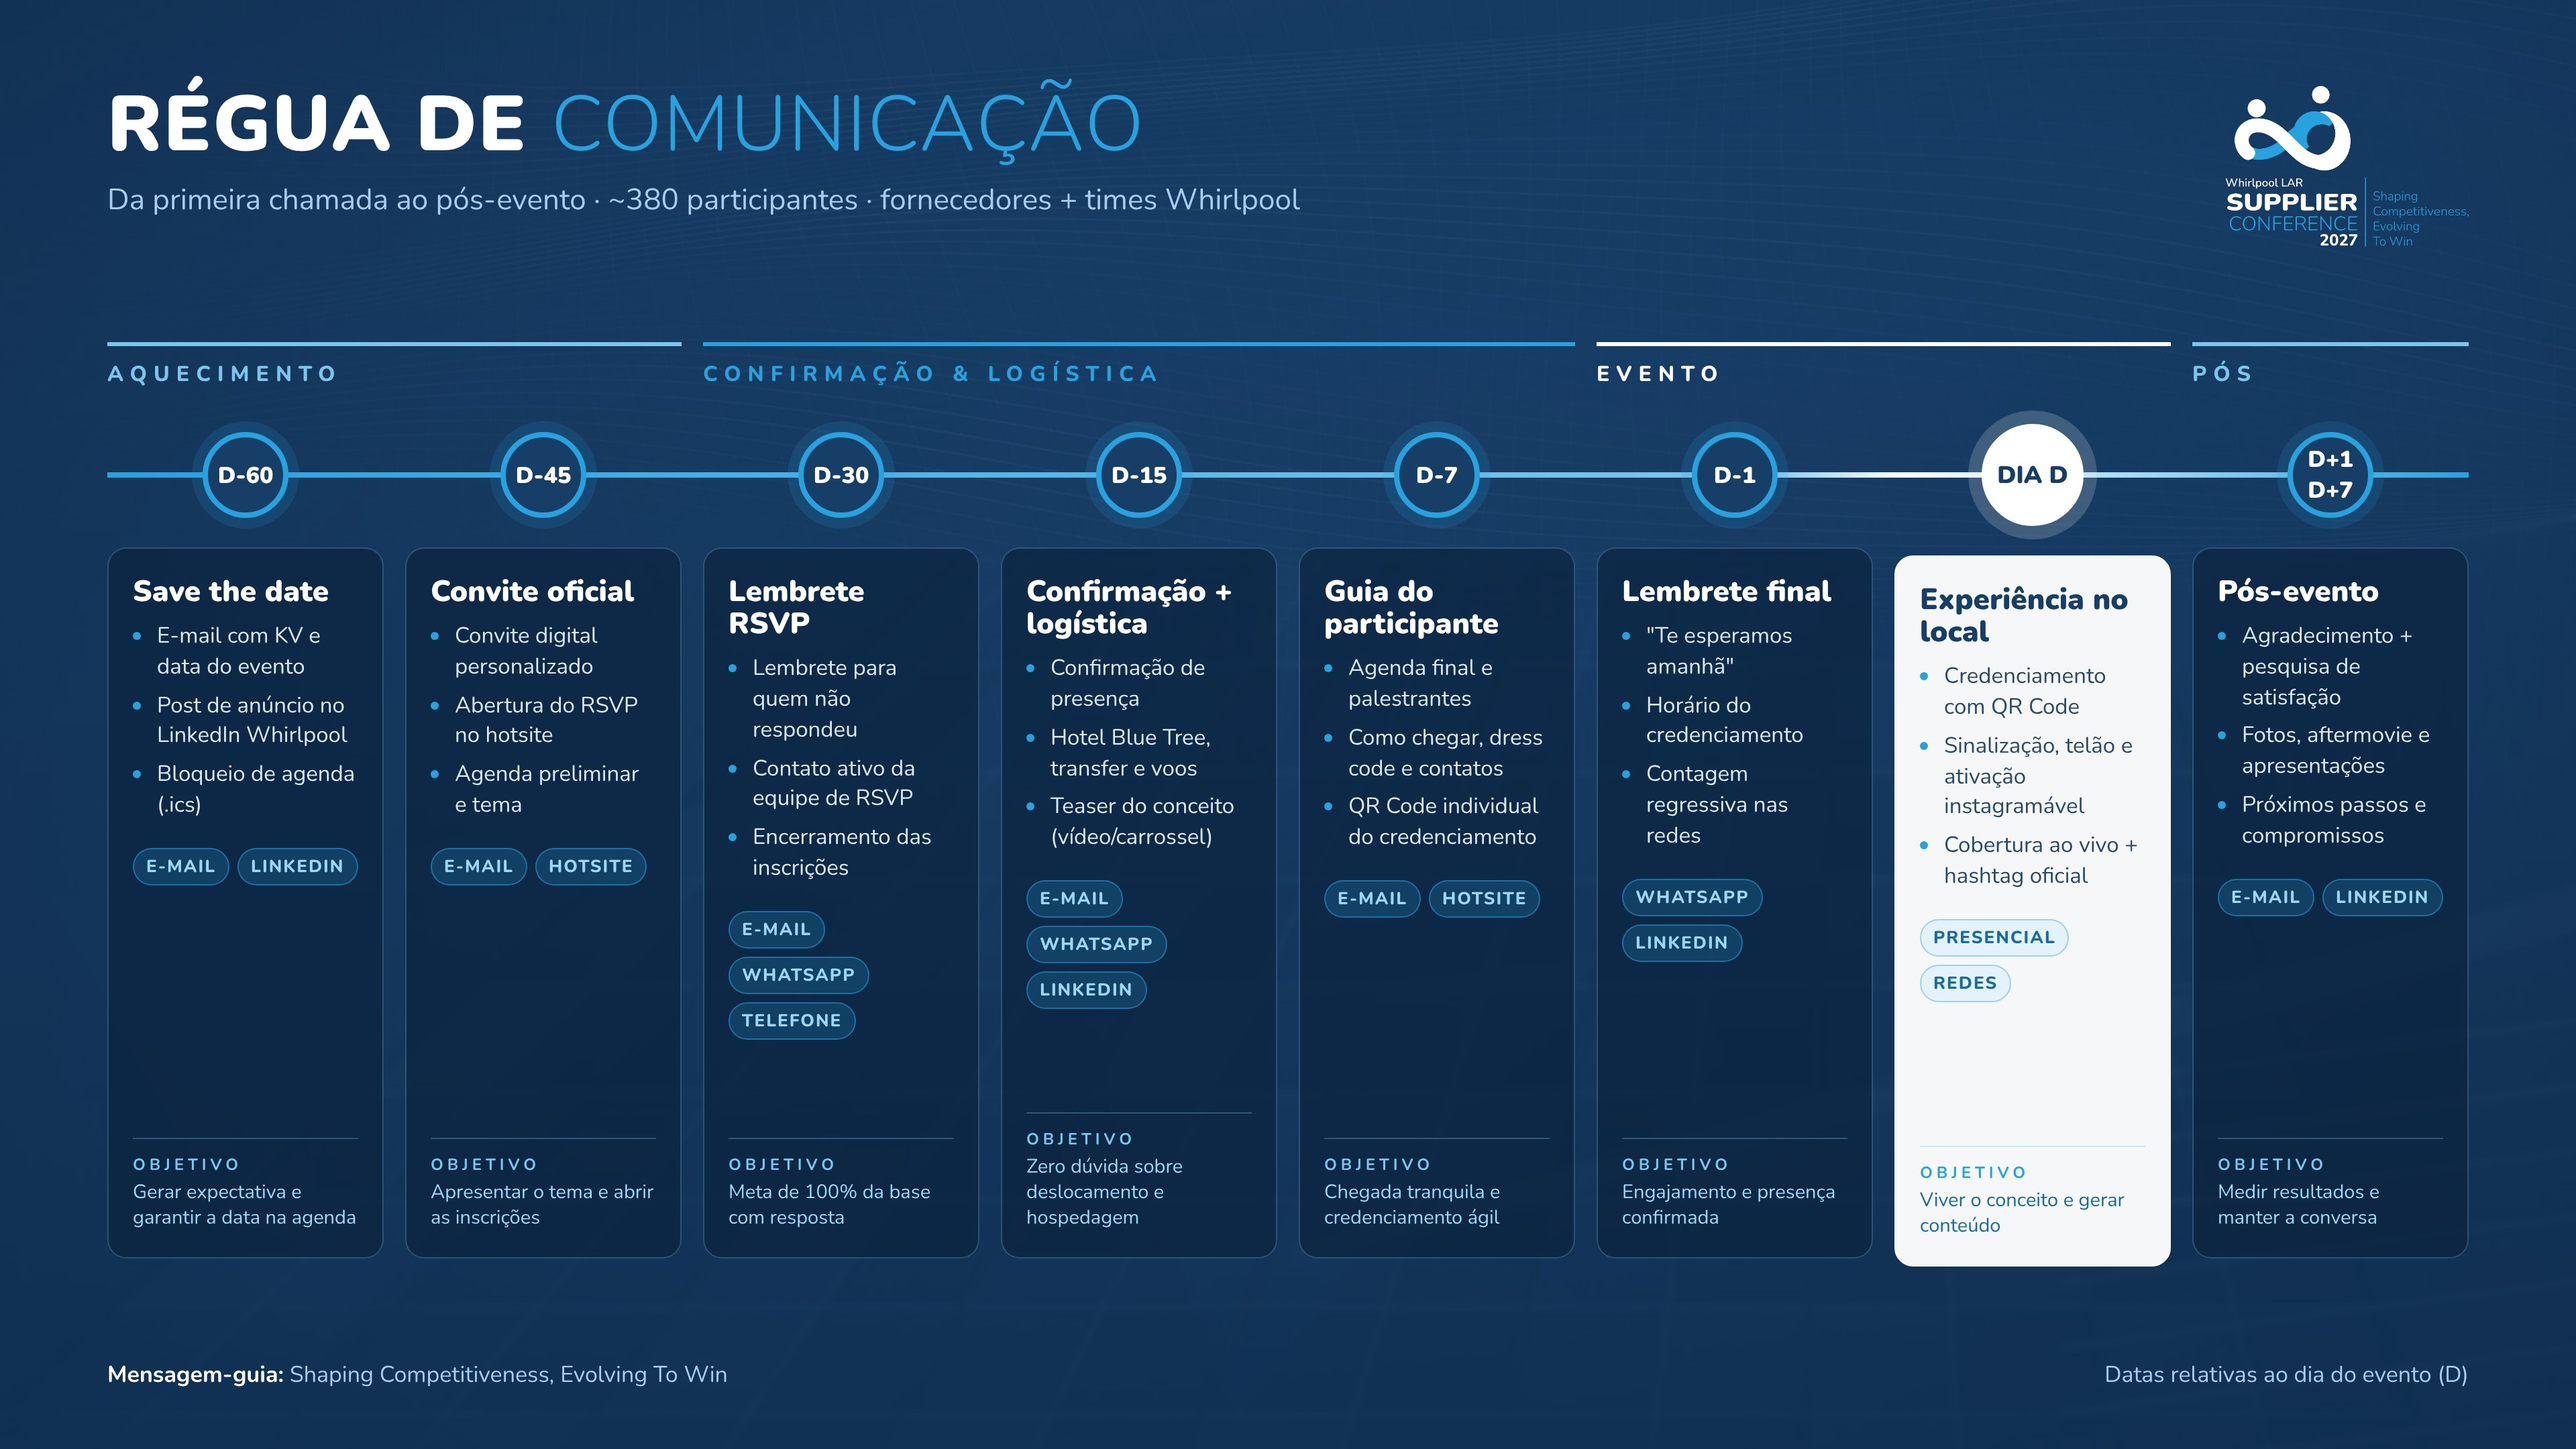
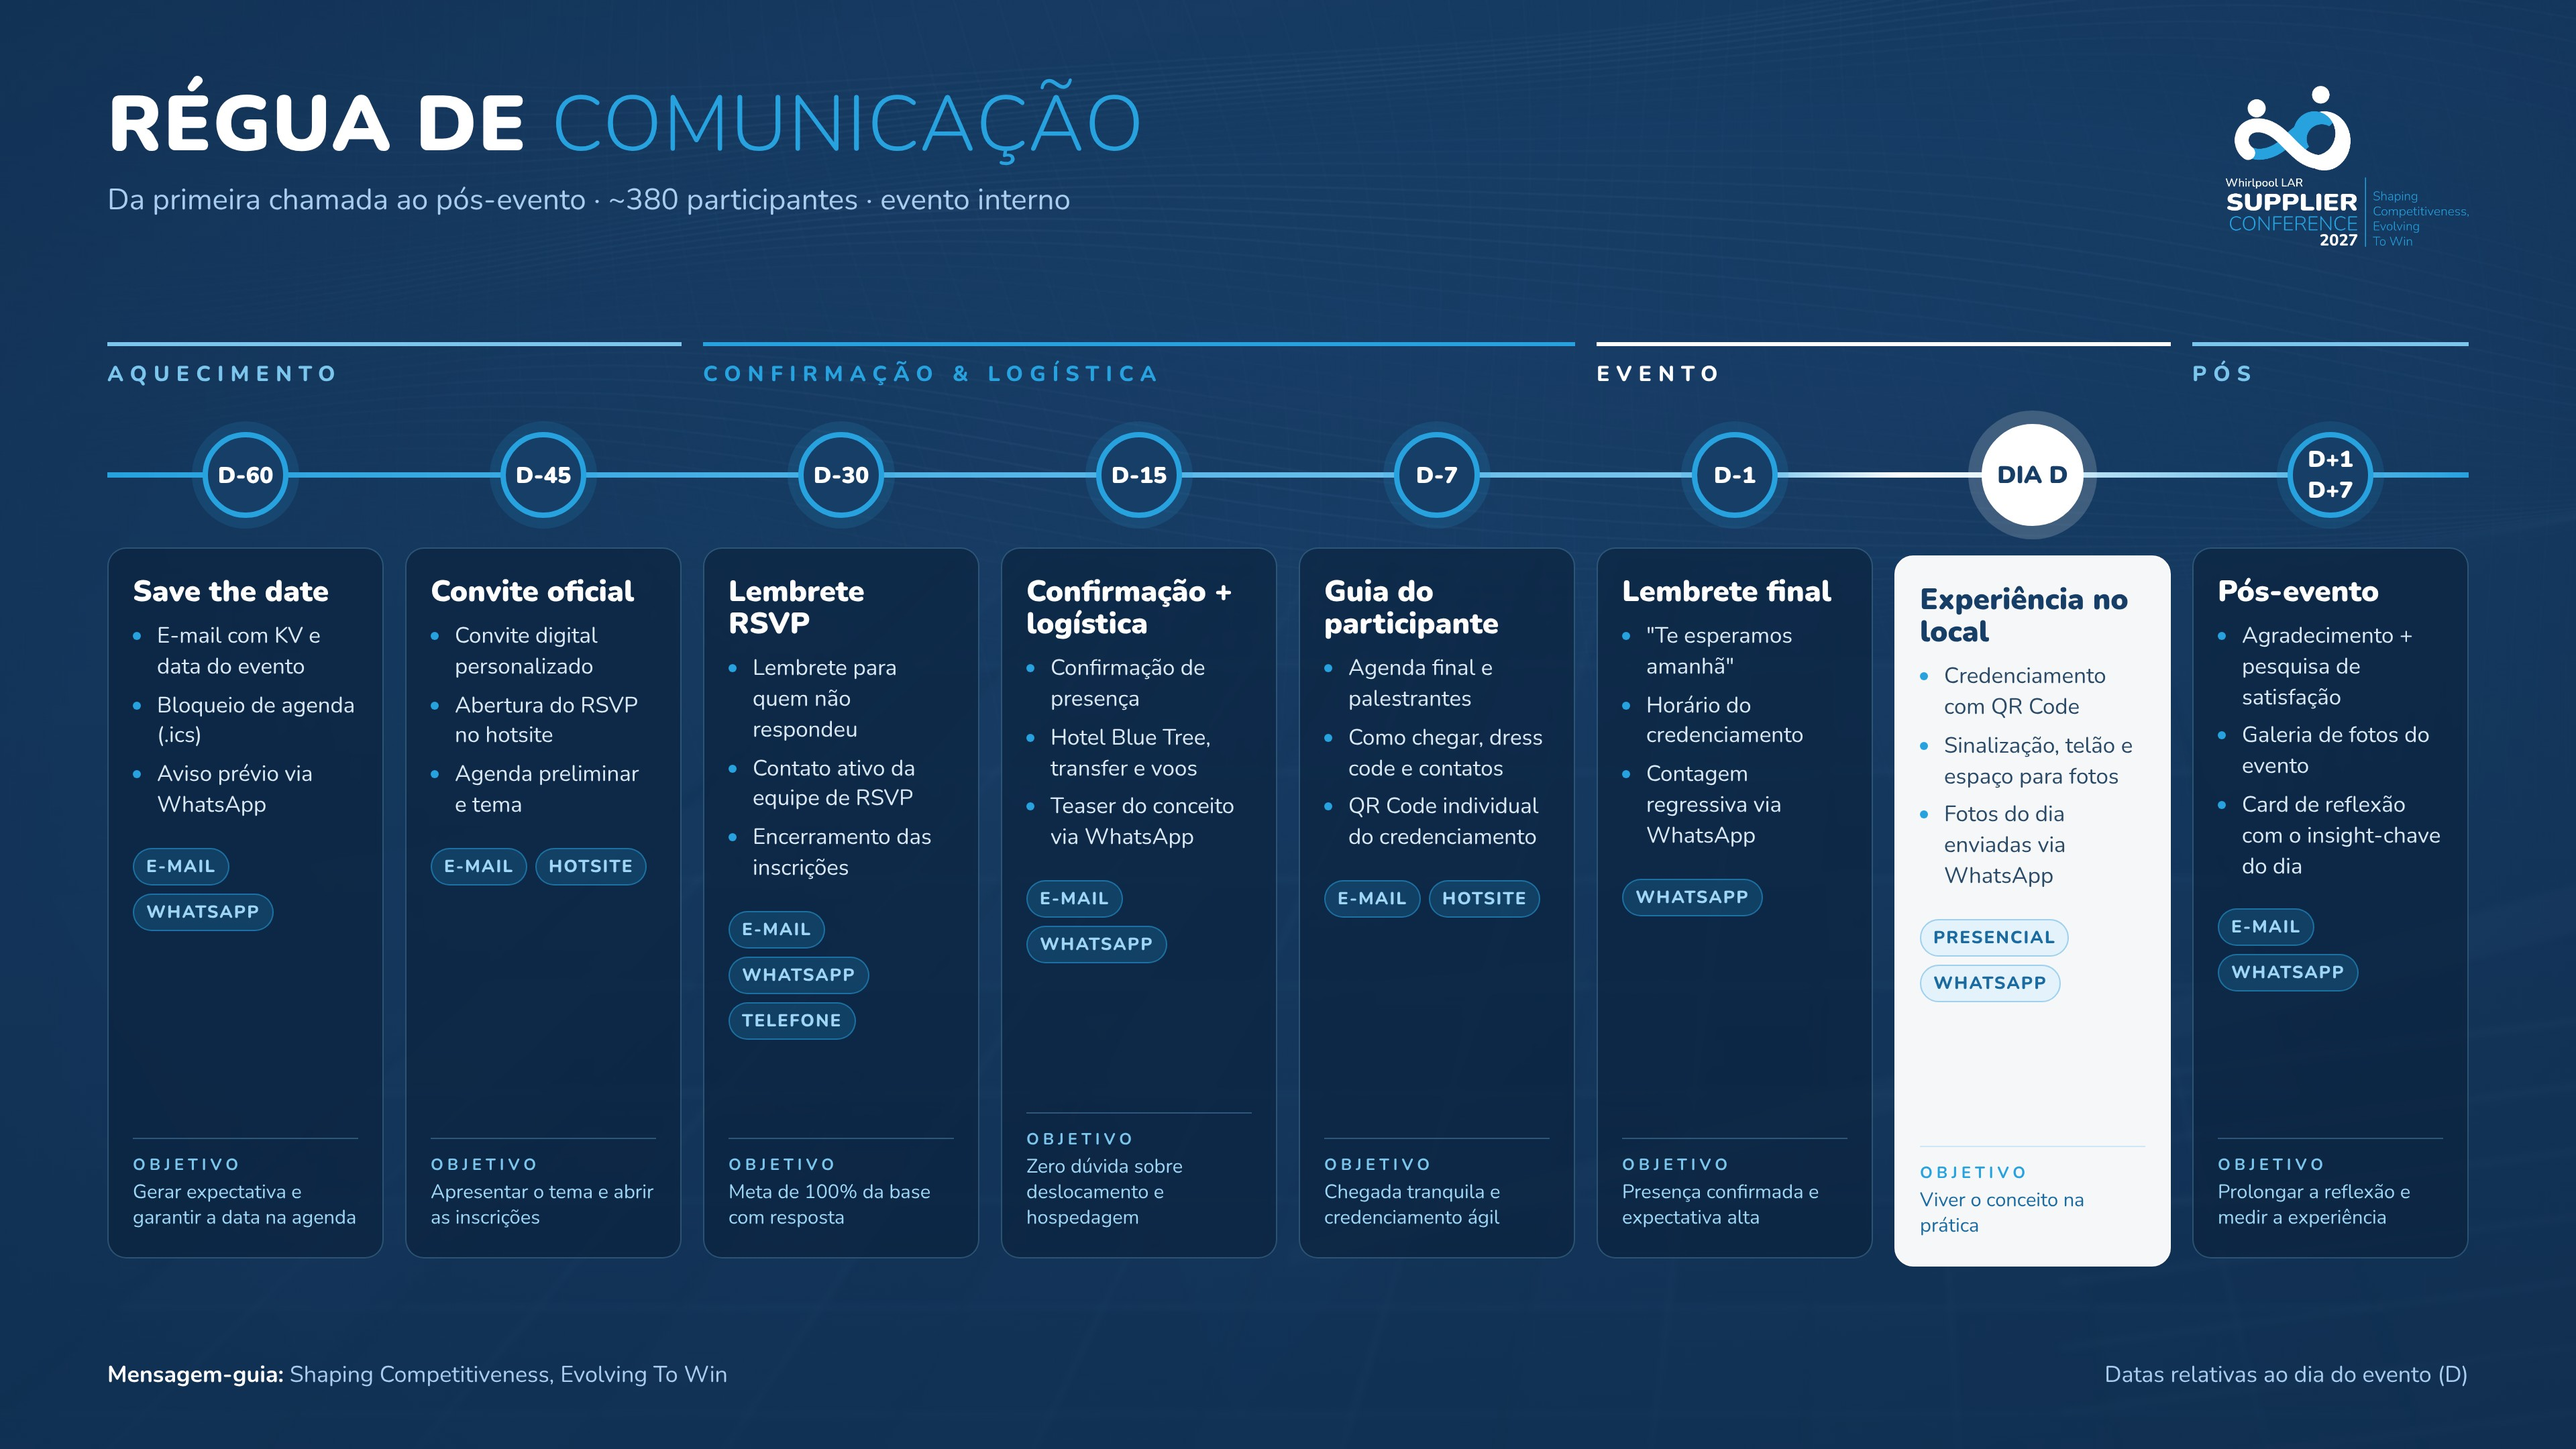
Adjust communication timeline for internal event (WhatsApp, no social media)
Claude-Session: https://claude.ai/code/session_01Tmca41ngmdPZcQ4CYpkX2e

diff --git a/entregas/supplier-conference/regua/Regua_editavel.html b/entregas/supplier-conference/regua/Regua_editavel.html
@@ -39,7 +39,7 @@ footer b{color:#fff}
 <div class="wrap">
  <header>
   <div><h1>RÉGUA DE <span>COMUNICAÇÃO</span></h1>
-   <div class="sub">Da primeira chamada ao pós-evento · ~380 participantes · fornecedores + times Whirlpool</div></div>
+   <div class="sub">Da primeira chamada ao pós-evento · ~380 participantes · evento interno</div></div>
   <img src="logo_2027.png">
  </header>
 </div>
@@ -53,16 +53,16 @@ footer b{color:#fff}
 <div class="cols" id="cols"></div>
 <footer><div><b>Mensagem-guia:</b> Shaping Competitiveness, Evolving To Win</div><div>Datas relativas ao dia do evento (D)</div></footer>
 <script>
-const O=['Gerar expectativa e garantir a data na agenda', 'Apresentar o tema e abrir as inscrições', 'Meta de 100% da base com resposta', 'Zero dúvida sobre deslocamento e hospedagem', 'Chegada tranquila e credenciamento ágil', 'Engajamento e presença confirmada', 'Viver o conceito e gerar conteúdo', 'Medir resultados e manter a conversa'];
+const O=['Gerar expectativa e garantir a data na agenda','Apresentar o tema e abrir as inscrições','Meta de 100% da base com resposta','Zero dúvida sobre deslocamento e hospedagem','Chegada tranquila e credenciamento ágil','Presença confirmada e expectativa alta','Viver o conceito na prática','Prolongar a reflexão e medir a experiência'];
 const M=[
- ['D-60','Save the date',['E-mail com KV e data do evento','Post de anúncio no LinkedIn Whirlpool','Bloqueio de agenda (.ics)'],['E-mail','LinkedIn']],
+ ['D-60','Save the date',['E-mail com KV e data do evento','Bloqueio de agenda (.ics)','Aviso prévio via WhatsApp'],['E-mail','WhatsApp']],
  ['D-45','Convite oficial',['Convite digital personalizado','Abertura do RSVP no hotsite','Agenda preliminar e tema'],['E-mail','Hotsite']],
  ['D-30','Lembrete RSVP',['Lembrete para quem não respondeu','Contato ativo da equipe de RSVP','Encerramento das inscrições'],['E-mail','WhatsApp','Telefone']],
- ['D-15','Confirmação + logística',['Confirmação de presença','Hotel Blue Tree, transfer e voos','Teaser do conceito (vídeo/carrossel)'],['E-mail','WhatsApp','LinkedIn']],
+ ['D-15','Confirmação + logística',['Confirmação de presença','Hotel Blue Tree, transfer e voos','Teaser do conceito via WhatsApp'],['E-mail','WhatsApp']],
  ['D-7','Guia do participante',['Agenda final e palestrantes','Como chegar, dress code e contatos','QR Code individual do credenciamento'],['E-mail','Hotsite']],
- ['D-1','Lembrete final',['"Te esperamos amanhã"','Horário do credenciamento','Contagem regressiva nas redes'],['WhatsApp','LinkedIn']],
- ['DIA D','Experiência no local',['Credenciamento com QR Code','Sinalização, telão e ativação instagramável','Cobertura ao vivo + hashtag oficial'],['Presencial','Redes']],
- ['D+1 / D+7','Pós-evento',['Agradecimento + pesquisa de satisfação','Fotos, aftermovie e apresentações','Próximos passos e compromissos'],['E-mail','LinkedIn']],
+ ['D-1','Lembrete final',['"Te esperamos amanhã"','Horário do credenciamento','Contagem regressiva via WhatsApp'],['WhatsApp']],
+ ['DIA D','Experiência no local',['Credenciamento com QR Code','Sinalização, telão e espaço para fotos','Fotos do dia enviadas via WhatsApp'],['Presencial','WhatsApp']],
+ ['D+1 / D+7','Pós-evento',['Agradecimento + pesquisa de satisfação','Galeria de fotos do evento','Card de reflexão com o insight-chave do dia'],['E-mail','WhatsApp']],
 ];
 document.getElementById('cols').innerHTML=M.map((m,i)=>`<div class="m ${m[0]=='DIA D'?'d':''}"><div class="dot">${m[0].replace(' / ','<br>')}</div><div class="card"><h3>${m[1]}</h3><ul>${m[2].map(x=>`<li>${x}</li>`).join('')}</ul><div class="chips">${m[3].map(c=>`<span class="chip">${c}</span>`).join('')}</div><div class="obj"><b>OBJETIVO</b>${O[i]}</div></div></div>`).join('');
 Promise.all([document.fonts.ready,...[...document.images].map(i=>i.complete?1:new Promise(r=>i.onload=i.onerror=r))]).then(()=>document.body.dataset.ready=1);
